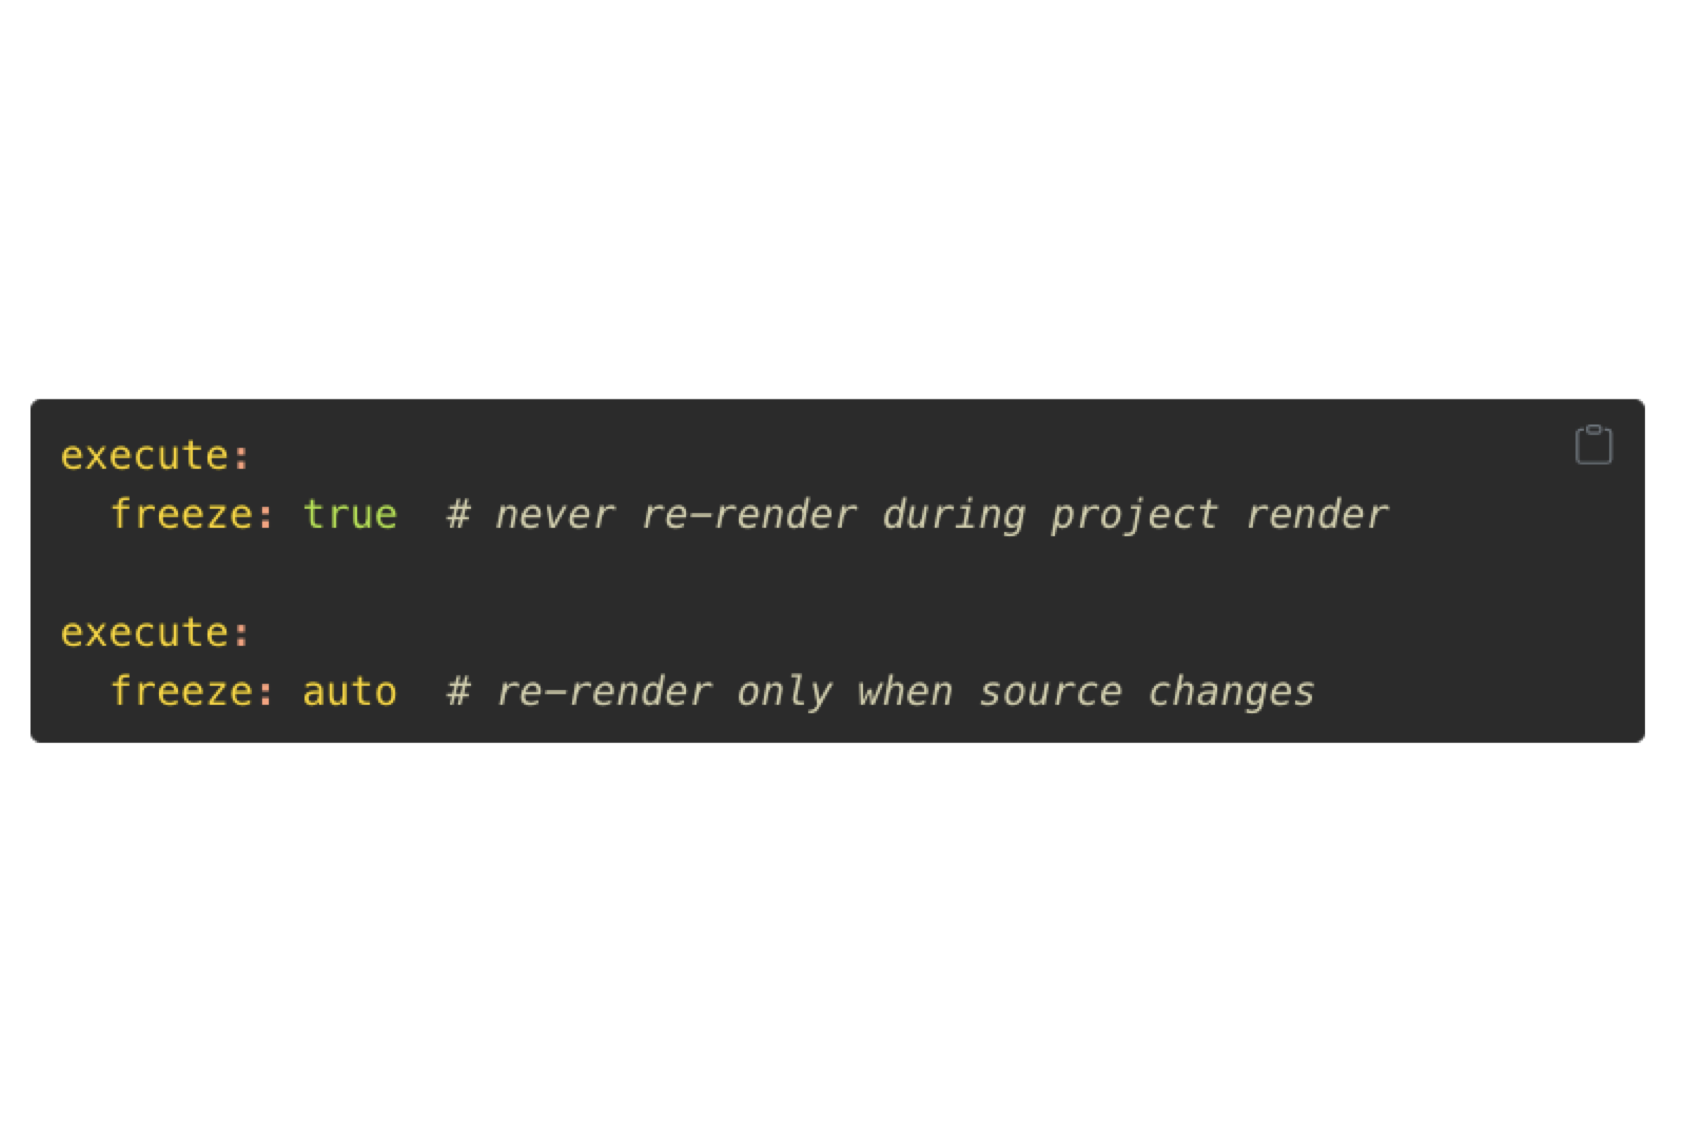
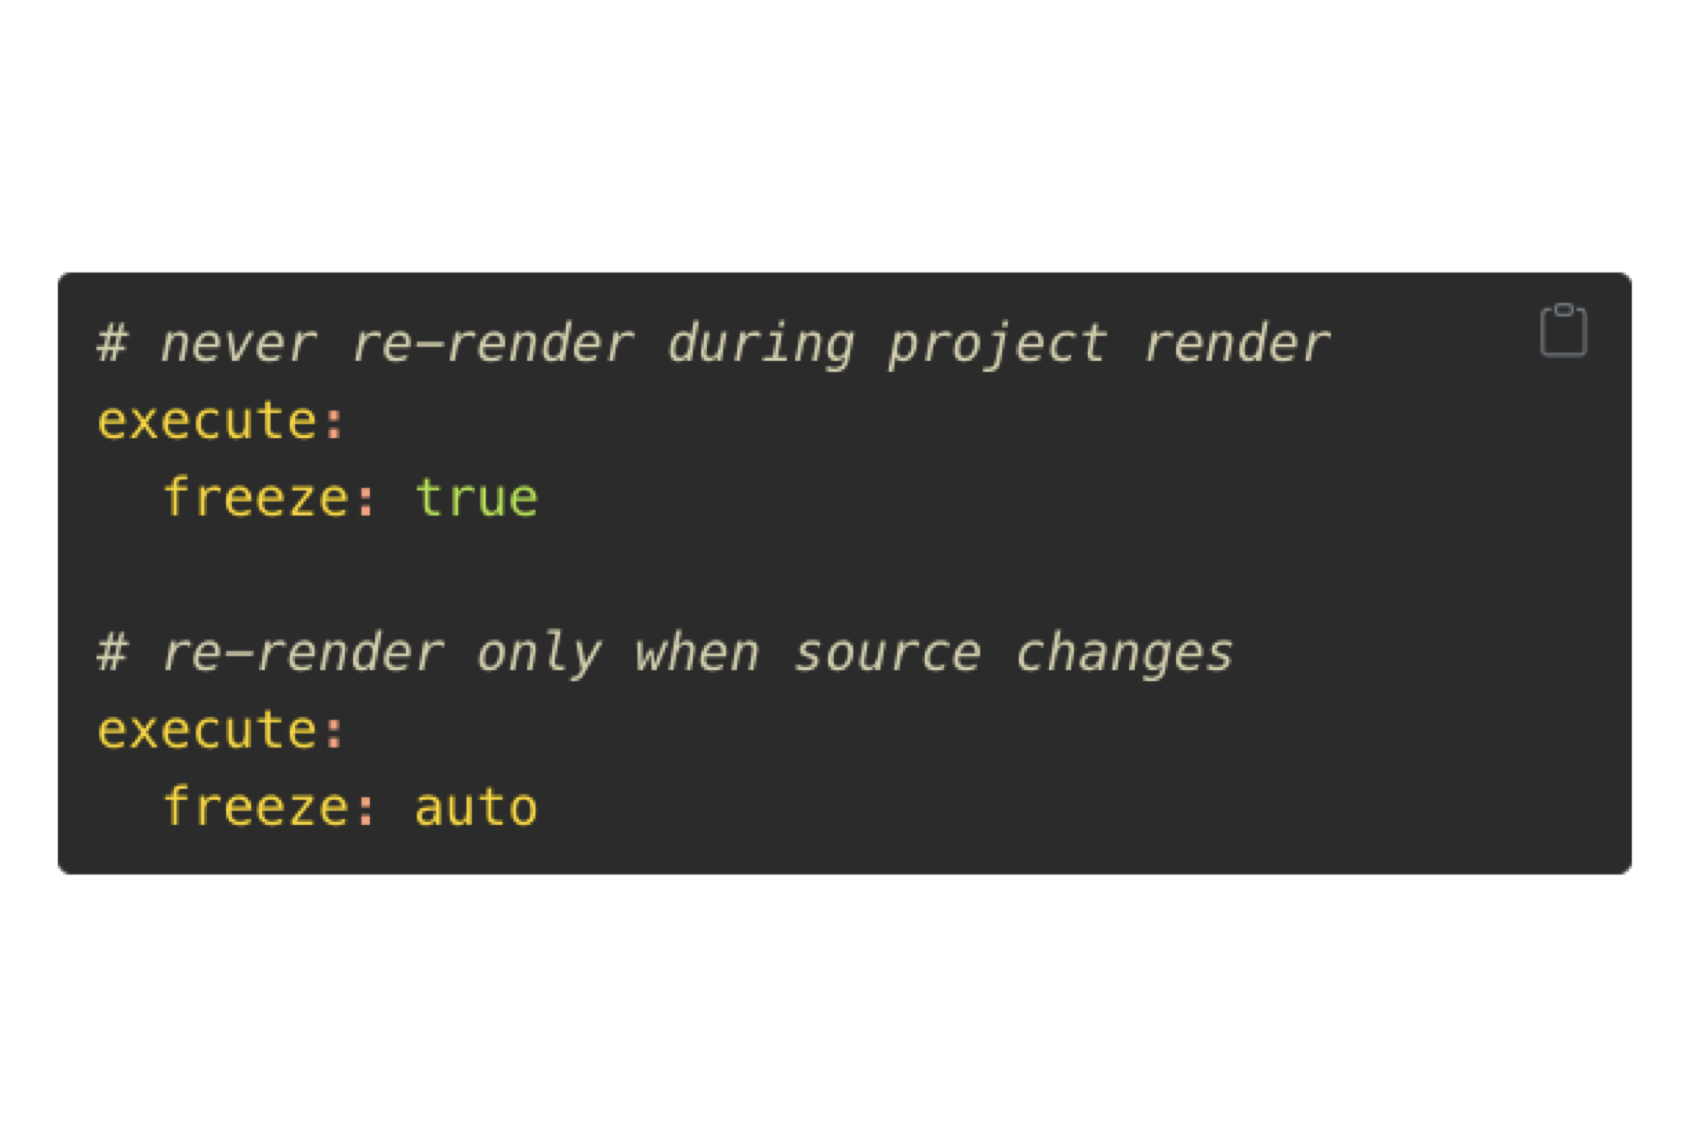
Deploying to gh-pages from @ mine-cetinkaya-rundel/quarto-tip-a-day@97f7f47ca4c31c77fc1d58cfcf6e80496be7e62f 🚀

Changed region(s): [[0.0, 0.2142, 0.9881, 0.7649]]

diff --git a/index.html b/index.html
@@ -174,11 +174,11 @@ ul.task-list{list-style: none;}
     </div>
 </div>
 <div class="list grid quarto-listing-cols-3">
-<div class="g-col-1" data-index="0" data-categories="execution" data-listing-date-sort="1656547200000" data-listing-file-modified-sort="1656614362171" data-listing-reading-time-sort="1.525">
+<div class="g-col-1" data-index="0" data-categories="execution" data-listing-date-sort="1656547200000" data-listing-file-modified-sort="1656614725827" data-listing-reading-time-sort="1.525">
 <a href="./posts/03-freeze/index.html" class="quarto-grid-link">
 <div class="quarto-grid-item card h-100 card-left">
 <p class="card-img-top">
-<img src="./posts/03-freeze/featured.png" class="thumbnail-image card-img" style="height: 150px;" alt="An R chunk with YAML-style chunk options echo: fenced, label: simple-arithmetic, results: hide. The R code in the chunk is 1 + 1. The fences of the chunk are also visible.">
+<img src="./posts/03-freeze/featured.png" class="thumbnail-image card-img" style="height: 150px;" alt="YAML file with two execute options. The first one is freeze: true and the comment that goes with it reads never re-render during project render. The other one is freeze: auto and the comment reads re-render only when source changes.">
 </p>
 <div class="card-body post-contents">
 <h5 class="no-anchor card-title listing-title">
@@ -196,7 +196,7 @@ Jun 30, 2022
 </div>
 </a>
 </div>
-<div class="g-col-1" data-index="1" data-categories="teaching,documentation" data-listing-date-sort="1656460800000" data-listing-file-modified-sort="1656614362171" data-listing-reading-time-sort="0.58">
+<div class="g-col-1" data-index="1" data-categories="teaching,documentation" data-listing-date-sort="1656460800000" data-listing-file-modified-sort="1656614725827" data-listing-reading-time-sort="0.58">
 <a href="./posts/02-fenced-echo/index.html" class="quarto-grid-link">
 <div class="quarto-grid-item card h-100 card-left">
 <p class="card-img-top">
@@ -218,7 +218,7 @@ Jun 29, 2022
 </div>
 </a>
 </div>
-<div class="g-col-1" data-index="2" data-categories="tables" data-listing-date-sort="1656374400000" data-listing-file-modified-sort="1656614362171" data-listing-reading-time-sort="0.23">
+<div class="g-col-1" data-index="2" data-categories="tables" data-listing-date-sort="1656374400000" data-listing-file-modified-sort="1656614725827" data-listing-reading-time-sort="0.23">
 <a href="./posts/01-side-by-side-tables/index.html" class="quarto-grid-link">
 <div class="quarto-grid-item card h-100 card-left">
 <p class="card-img-top">

diff --git a/posts/01-side-by-side-tables/index.html b/posts/01-side-by-side-tables/index.html
@@ -236,12 +236,12 @@ code span.wa { color: #60a0b0; font-weight: bold; font-style: italic; } /* Warni
 <span id="cb1-11"><a href="#cb1-11" aria-hidden="true" tabindex="-1"></a><span class="co"># table on the right</span></span>
 <span id="cb1-12"><a href="#cb1-12" aria-hidden="true" tabindex="-1"></a><span class="fu">kable</span>(<span class="fu">head</span>(cars))</span>
 <span id="cb1-13"><a href="#cb1-13" aria-hidden="true" tabindex="-1"></a><span class="in">```</span></span></code><button title="Copy to Clipboard" class="code-copy-button"><i class="bi"></i></button></pre></div>
-<div id="tbl-anonymous-1257391" class="cell tbl-parent quarto-layout-panel anchored">
+<div id="tbl-anonymous-7100498" class="cell tbl-parent quarto-layout-panel anchored">
 <div class="panel-caption table-caption">
 <p>Two tables</p>
 </div>
 <div class="quarto-layout-row quarto-layout-valign-top">
-<div id="tbl-anonymous-1257391-1" class="quarto-layout-cell quarto-layout-cell-subref anchored" data-ref-parent="tbl-anonymous-1257391" style="flex-basis: 50.0%;justify-content: center;">
+<div id="tbl-anonymous-7100498-1" class="quarto-layout-cell quarto-layout-cell-subref anchored" data-ref-parent="tbl-anonymous-7100498" style="flex-basis: 50.0%;justify-content: center;">
 <table class="table table-sm table-striped">
 <caption>mtcars</caption>
 <thead>
@@ -292,7 +292,7 @@ code span.wa { color: #60a0b0; font-weight: bold; font-style: italic; } /* Warni
 </tbody>
 </table>
 </div>
-<div id="tbl-anonymous-1257391-2" class="quarto-layout-cell quarto-layout-cell-subref anchored" data-ref-parent="tbl-anonymous-1257391" style="flex-basis: 50.0%;justify-content: center;">
+<div id="tbl-anonymous-7100498-2" class="quarto-layout-cell quarto-layout-cell-subref anchored" data-ref-parent="tbl-anonymous-7100498" style="flex-basis: 50.0%;justify-content: center;">
 <table class="table table-sm table-striped">
 <caption>Just cars</caption>
 <thead>

diff --git a/posts/03-freeze/index.html b/posts/03-freeze/index.html
@@ -127,7 +127,7 @@ code span.wa { color: #60a0b0; font-weight: bold; font-style: italic; } /* Warni
 <meta name="twitter:creator" content="@quarto_pub">
 <meta name="twitter:image-height" content="600">
 <meta name="twitter:image-width" content="1200">
-<meta name="twitter:image:alt" content="An R chunk with YAML-style chunk options echo: fenced, label: simple-arithmetic, results: hide. The R code in the chunk is 1 + 1. The fences of the chunk are also visible.">
+<meta name="twitter:image:alt" content="YAML file with two execute options. The first one is freeze: true and the comment that goes with it reads never re-render during project render. The other one is freeze: auto and the comment reads re-render only when source changes.">
 <meta name="twitter:card" content="summary_large_image">
 </head>
 
